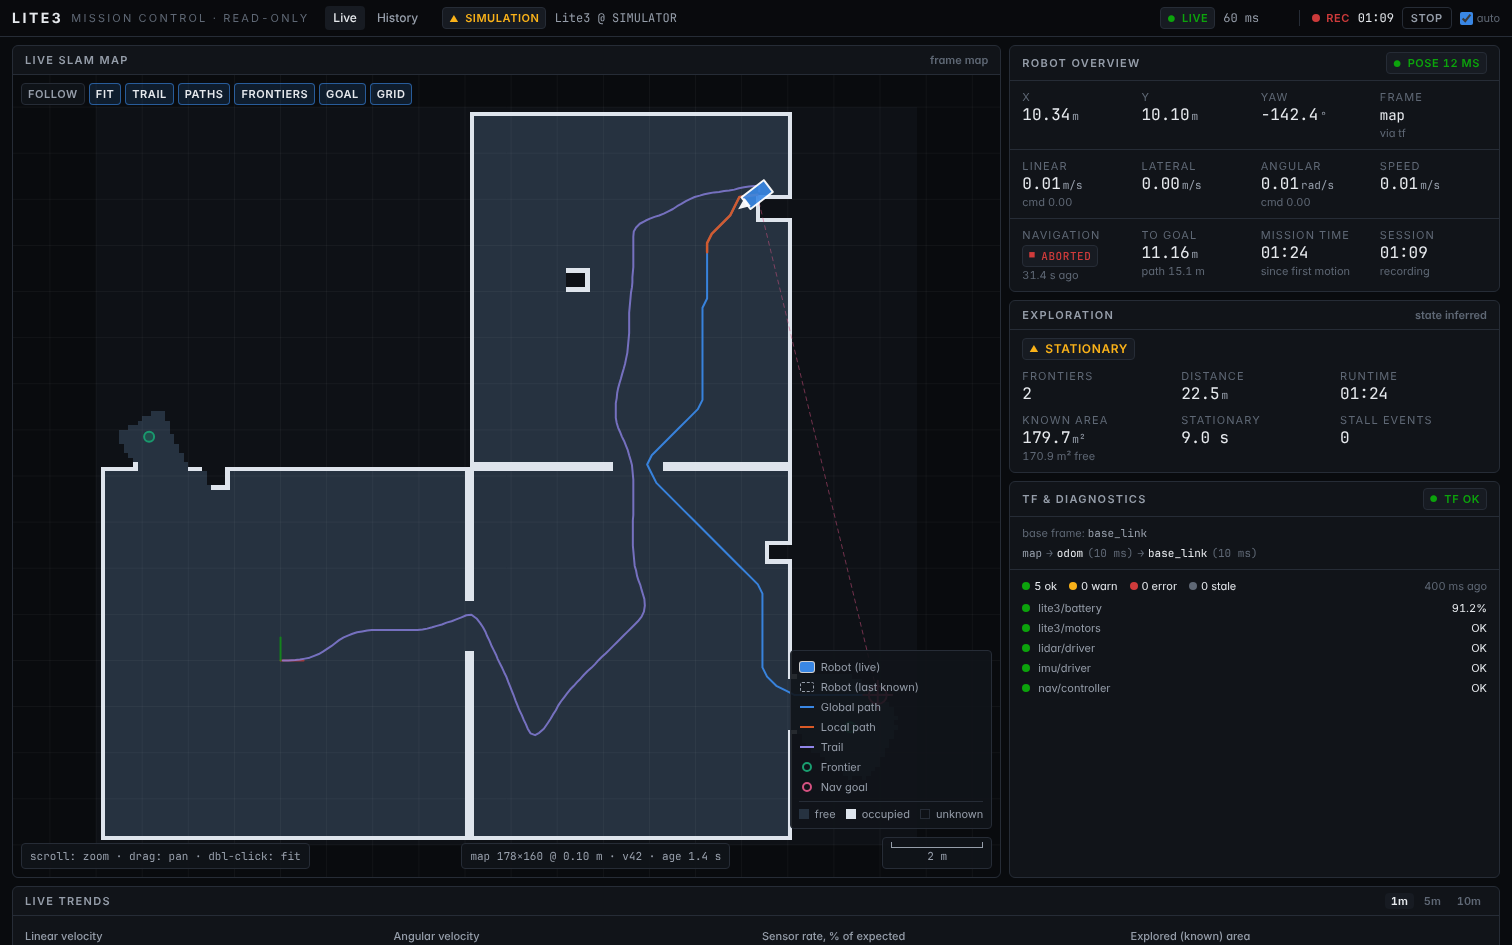
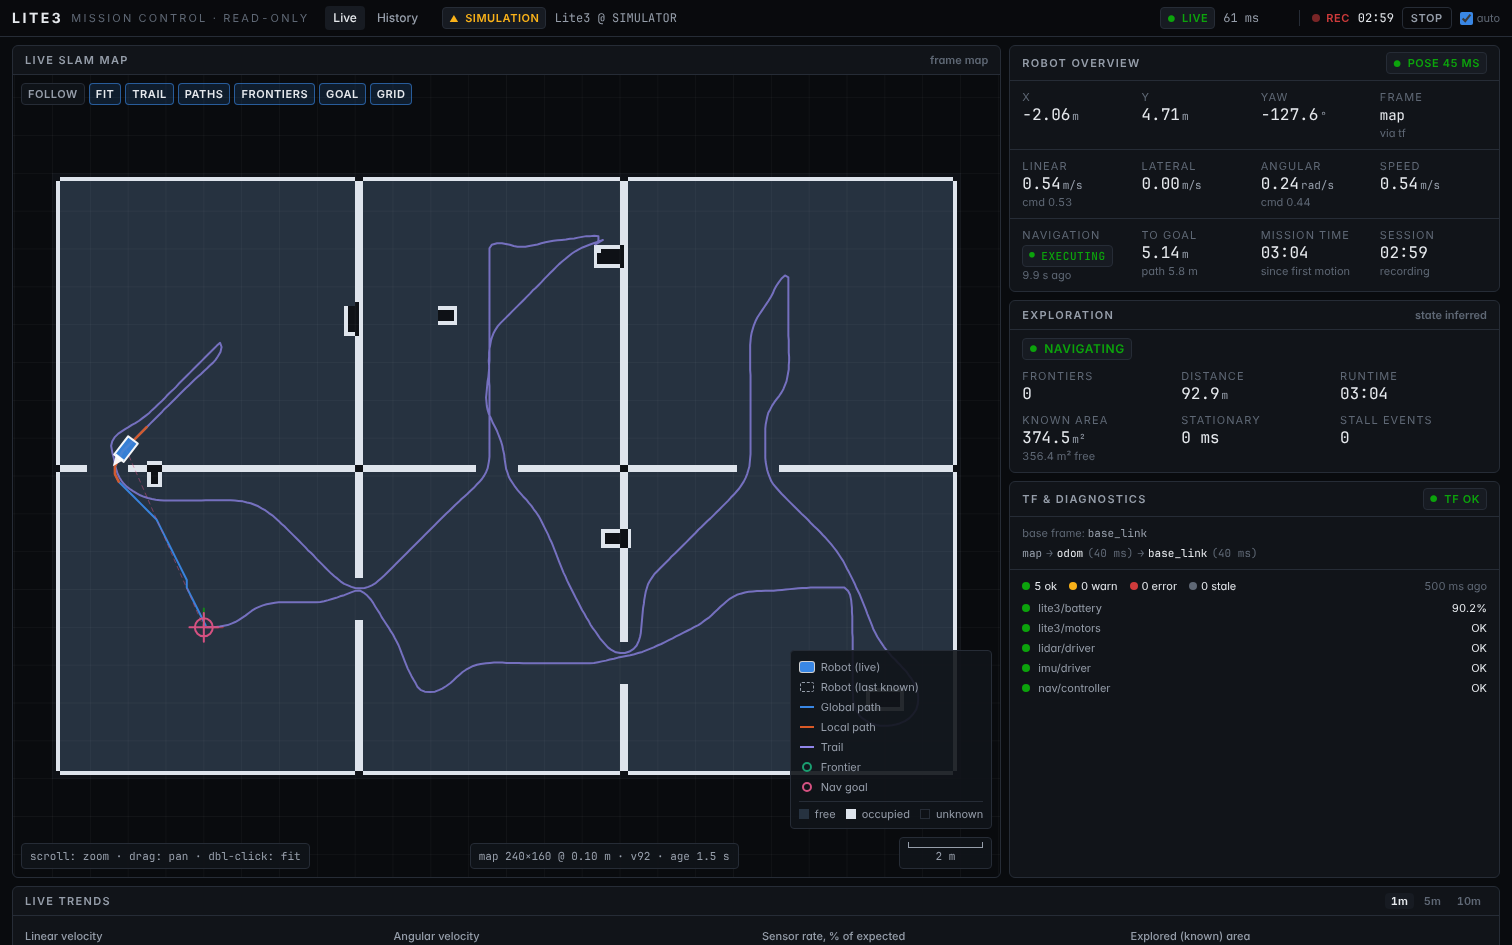
Fix simulator stall and add simulated-clock regression tests
The demo robot pinned itself against obstacle corners and never replanned,
so exploration froze after a few metres. Use exact DDA ray casting, bumper-style
recovery, a no-progress watchdog and no corner cutting. Tests drive the simulator
with a simulated clock so they run in seconds.

Claude-Session: https://claude.ai/code/session_01ULc4aySzyFwzTSRAy1QPNr

diff --git a/lite3-monitor/bridge/lite3_bridge/sim.py b/lite3-monitor/bridge/lite3_bridge/sim.py
@@ -104,18 +104,24 @@ class Explorer:
         self.frontier_centroids: List[Tuple[float, float]] = []
 
     def scan(self, x: float, y: float) -> None:
+        """Ray cast with exact grid traversal (Amanatides-Woo DDA): no ray can slip
+        diagonally between two occupied cells, so walls are always closed."""
         known, truth = self.known, self.world.truth
-        step = RES * 0.5
-        n = int(SCAN_RANGE / step)
+        gx = (x - ORIGIN[0]) / RES
+        gy = (y - ORIGIN[1]) / RES
+        max_cells = SCAN_RANGE / RES
         for i in range(360):
             a = i * (2 * math.pi / 360)
-            dx, dy = math.cos(a) * step, math.sin(a) * step
-            px, py = x, y
-            for _ in range(n):
-                px += dx
-                py += dy
-                cx = int((px - ORIGIN[0]) / RES)
-                cy = int((py - ORIGIN[1]) / RES)
+            dx, dy = math.cos(a), math.sin(a)
+            cx, cy = int(gx), int(gy)
+            step_x = 1 if dx > 0 else -1
+            step_y = 1 if dy > 0 else -1
+            t_dx = abs(1.0 / dx) if dx != 0 else 1e18
+            t_dy = abs(1.0 / dy) if dy != 0 else 1e18
+            t_x = ((cx + 1 - gx) if dx > 0 else (gx - cx)) * t_dx
+            t_y = ((cy + 1 - gy) if dy > 0 else (gy - cy)) * t_dy
+            t = 0.0
+            while t <= max_cells:
                 if not (0 <= cx < W and 0 <= cy < H):
                     break
                 idx = cy * W + cx
@@ -123,6 +129,14 @@ class Explorer:
                     known[idx] = OCC
                     break
                 known[idx] = FREE
+                if t_x < t_y:
+                    t = t_x
+                    t_x += t_dx
+                    cx += step_x
+                else:
+                    t = t_y
+                    t_y += t_dy
+                    cy += step_y
 
     def frontiers(self) -> List[Tuple[float, float, int, Cell]]:
         known = self.known
@@ -185,13 +199,18 @@ class Explorer:
         sx, sy = start
         gx, gy = goal
         blocked = bytearray(blocked)
-        # Let the robot leave an inflated zone it has drifted into (known-free cells only).
+        # Let the robot leave an inflated zone it has drifted into: free known cells near
+        # the start are usable, but never cells touching an obstacle.
+        known = self.known
         r = INFLATE + 1
         for ddy in range(-r, r + 1):
             for ddx in range(-r, r + 1):
                 xx, yy = sx + ddx, sy + ddy
-                if 0 <= xx < W and 0 <= yy < H and self.known[yy * W + xx] == FREE:
-                    blocked[yy * W + xx] = 0
+                if not (1 <= xx < W - 1 and 1 <= yy < H - 1) or known[yy * W + xx] != FREE:
+                    continue
+                if any(known[(yy + j) * W + xx + i] == OCC for i in (-1, 0, 1) for j in (-1, 0, 1)):
+                    continue
+                blocked[yy * W + xx] = 0
         blocked[sy * W + sx] = 0
         blocked[gy * W + gx] = 0
         openh = [(0.0, sx, sy)]
@@ -215,6 +234,8 @@ class Explorer:
                 nx, ny = x + dx, y + dy
                 if not (0 <= nx < W and 0 <= ny < H) or blocked[ny * W + nx]:
                     continue
+                if dx and dy and (blocked[y * W + nx] or blocked[ny * W + x]):
+                    continue  # no diagonal corner cutting
                 ng = gc + cst
                 if ng < g.get((nx, ny), 1e18):
                     g[(nx, ny)] = ng
@@ -255,6 +276,13 @@ class SimSource:
         self.next_fault = time.monotonic() + 40.0
         self.battery = 92.0
         self.map_version_sent = 0
+        # collision / no-progress recovery
+        self.backing_until = 0.0
+        self.force_replan = False
+        self.replan_after_backing = False
+        self.progress_ref: Optional[Tuple[float, float, float]] = None  # (t, x, y)
+        self.collisions = 0
+        self.travelled = 0.0
 
     def _role_name(self, role: str) -> Optional[str]:
         c = self.cfg["topics"][role]["candidates"]
@@ -308,46 +336,53 @@ class SimSource:
         return time.monotonic() < self.link_down_until
 
     # ------------------------------------------------------------------- loop
+    DT = 0.05
+
     def _run(self) -> None:
-        dt = 0.05
-        k = 0
-        last_scan = last_plan = last_map = last_diag = last_frontier = 0.0
-        last_dropout = time.monotonic()
-        replan_needed = True
         while not self._stop.is_set():
             t0 = time.monotonic()
-            now = t0
-            k += 1
             try:
-                self._faults(now)
-                if self.link_dropouts and now - last_dropout > self.dropout_every:
-                    last_dropout = now
-                    self.link_down_until = now + self.dropout_dur
-                    log.info("sim: simulated link dropout for %.0fs", self.dropout_dur)
-
-                if now - last_scan >= 0.5:
-                    last_scan = now
-                    self.explorer.scan(self.x, self.y)
-                due = now - last_plan >= 8.0 or (self.goal and self._dist_to(self.goal) < 0.4)
-                if (replan_needed and now - last_plan >= 1.0) or due:
-                    last_plan = now
-                    replan_needed = not self._replan(now)
-                    last_frontier = now
-                if now - last_map >= 2.0:
-                    last_map = now
-                    self._publish_map()
-                if now - last_diag >= 1.0:
-                    last_diag = now
-                    self._publish_diag()
-                    self._publish_paths()
-                if now - last_frontier >= 3.0:
-                    last_frontier = now
-                    self._publish_frontiers(self.explorer.frontier_centroids)
-                self._step(dt, now)
-                self._publish_fast(dt, k)
+                self.tick(t0)
             except Exception:  # keep the simulator alive no matter what
                 log.exception("sim step failed")
-            self._stop.wait(max(0.0, dt - (time.monotonic() - t0)))
+            self._stop.wait(max(0.0, self.DT - (time.monotonic() - t0)))
+
+    def tick(self, now: float) -> None:
+        """Advance the simulation by one DT step. `now` may be a simulated clock (tests)."""
+        if not hasattr(self, "_t"):
+            self._t = {"scan": -1e9, "plan": -1e9, "map": -1e9, "diag": -1e9, "frontier": -1e9,
+                       "dropout": now}
+            self._k = 0
+            self._replan_needed = True
+        t = self._t
+        self._k += 1
+        self._faults(now)
+        if self.link_dropouts and now - t["dropout"] > self.dropout_every:
+            t["dropout"] = now
+            self.link_down_until = now + self.dropout_dur
+            log.info("sim: simulated link dropout for %.0fs", self.dropout_dur)
+
+        if now - t["scan"] >= 0.5:
+            t["scan"] = now
+            self.explorer.scan(self.x, self.y)
+        due = now - t["plan"] >= 8.0 or (self.goal and self._dist_to(self.goal) < 0.4)
+        if self.force_replan or (self._replan_needed and now - t["plan"] >= 1.0) or due:
+            self.force_replan = False
+            t["plan"] = now
+            self._replan_needed = not self._replan(now)
+            t["frontier"] = now
+        if now - t["map"] >= 2.0:
+            t["map"] = now
+            self._publish_map()
+        if now - t["diag"] >= 1.0:
+            t["diag"] = now
+            self._publish_diag()
+            self._publish_paths()
+        if now - t["frontier"] >= 3.0:
+            t["frontier"] = now
+            self._publish_frontiers(self.explorer.frontier_centroids)
+        self._step(self.DT, now)
+        self._publish_fast(self.DT, self._k)
 
     def _dist_to(self, p: Tuple[float, float]) -> float:
         return math.hypot(p[0] - self.x, p[1] - self.y)
@@ -444,6 +479,11 @@ class SimSource:
             tv = 0.0 if abs(err) > 0.9 else 0.55 * math.cos(err)
             if len(self.path) == 1 and self._dist_to(self.path[0]) < 0.25:
                 tv = tw = 0.0
+        if now < self.backing_until:
+            tv, tw = -0.25, 0.0  # bumper recovery: reverse away from the obstacle
+        elif self.replan_after_backing:
+            self.replan_after_backing = False
+            self.force_replan = True
         self.cmd = (tv, tw)
         # first-order dynamics
         self.v += (tv - self.v) * min(1.0, dt * 3.0)
@@ -453,14 +493,50 @@ class SimSource:
         nx = self.x + self.v * math.cos(self.yaw) * dt
         ny = self.y + self.v * math.sin(self.yaw) * dt
         if not self.world.occupied(nx, ny):
+            self.travelled += math.hypot(nx - self.x, ny - self.y)
             self.x, self.y = nx, ny
         else:
             self.v = 0.0
+            if not self._has_fault("stuck"):
+                self._on_collision(nx, ny, now)
         self.yaw = wrap_angle(self.yaw + self.w * dt)
+        self._check_progress(now)
         # slow SLAM correction drift of map->odom
         self.drift[0] += self.rng.gauss(0, 0.0004)
         self.drift[1] += self.rng.gauss(0, 0.0004)
         self.drift[2] += self.rng.gauss(0, 0.0002)
+
+    def _on_collision(self, x: float, y: float, now: float) -> None:
+        """Like a bumper/costmap: record the obstacle that the scan missed, back off, replan."""
+        cx, cy = w2c(x, y)
+        known, truth = self.explorer.known, self.world.truth
+        for ddy in (-1, 0, 1):
+            for ddx in (-1, 0, 1):
+                xx, yy = cx + ddx, cy + ddy
+                if 0 <= xx < W and 0 <= yy < H and truth[yy * W + xx] == OCC:
+                    known[yy * W + xx] = OCC
+        if now >= self.backing_until:
+            self.collisions += 1
+            self.backing_until = now + 1.5
+            self.replan_after_backing = True
+
+    def _check_progress(self, now: float) -> None:
+        """Give up on a goal if the robot has not moved 0.15 m in 6 s (not during injected stalls)."""
+        if not self.goal or self._has_fault("stuck"):
+            self.progress_ref = (now, self.x, self.y)
+            return
+        if self.progress_ref is None:
+            self.progress_ref = (now, self.x, self.y)
+            return
+        t0, x0, y0 = self.progress_ref
+        if math.hypot(self.x - x0, self.y - y0) >= 0.15:
+            self.progress_ref = (now, self.x, self.y)
+        elif now - t0 > 6.0:
+            log.info("sim: no progress towards goal, blacklisting it and replanning")
+            self.explorer.blacklist.append(self.goal)
+            self._finish_goal("ABORTED")
+            self.progress_ref = (now, self.x, self.y)
+            self.force_replan = True
 
     # ------------------------------------------------------------- publishing
     def _publish_fast(self, dt: float, k: int) -> None:

diff --git a/lite3-monitor/bridge/tests/test_sim.py b/lite3-monitor/bridge/tests/test_sim.py
@@ -1,0 +1,84 @@
+"""Simulator regression tests, driven by a simulated clock (fast, deterministic per seed).
+
+Regression for the stall found in the first handover: the robot pinned itself
+against an obstacle corner, nav stayed EXECUTING forever and distance froze.
+"""
+import pytest
+
+from lite3_bridge.config import load_config
+from lite3_bridge.sim import INFLATE, OCC, FREE, H, W, SimSource, w2c
+from lite3_bridge.state import TelemetryStore
+
+
+def make_sim(seed, faults=False):
+    cfg = load_config()
+    cfg["sim"]["seed"] = seed
+    cfg["sim"]["topic_faults"] = faults
+    src = SimSource(TelemetryStore(cfg, "sim"), cfg)
+    src._register()  # no background thread; the test drives tick()
+    return src
+
+
+def run(src, seconds, now=1000.0, stop_when_complete=False):
+    for _ in range(int(seconds / src.DT)):
+        now += src.DT
+        src.tick(now)
+        if stop_when_complete and src.complete_at is not None:
+            break
+    return now
+
+
+def body_reachable_coverage(src):
+    """Fraction of cells the robot body can reach (outside the wall margin) that are explored."""
+    truth, known = src.world.truth, src.explorer.known
+
+    def near_wall(x, y):
+        for j in range(-INFLATE, INFLATE + 1):
+            for i in range(-INFLATE, INFLATE + 1):
+                if i * i + j * j <= INFLATE * INFLATE and 0 <= x + i < W and 0 <= y + j < H \
+                        and truth[(y + j) * W + x + i] == OCC:
+                    return True
+        return False
+
+    start = w2c(0.0, 0.0)
+    seen, stack = {start}, [start]
+    while stack:
+        x, y = stack.pop()
+        for n in ((x + 1, y), (x - 1, y), (x, y + 1), (x, y - 1)):
+            if 0 <= n[0] < W and 0 <= n[1] < H and n not in seen and not near_wall(*n):
+                seen.add(n)
+                stack.append(n)
+    return sum(1 for x, y in seen if known[y * W + x] == FREE) / len(seen)
+
+
+@pytest.mark.parametrize("seed", [7, 9, 10])
+def test_sim_keeps_moving(seed):
+    src = make_sim(seed)
+    run(src, 120)
+    assert src.travelled > 15.0, f"seed {seed}: robot stalled after {src.travelled:.1f} m"
+
+
+@pytest.mark.parametrize("seed", [7, 8, 9, 11])
+def test_sim_explores_everything_reachable(seed):
+    src = make_sim(seed)
+    run(src, 400, stop_when_complete=True)
+    assert src.complete_at is not None, f"seed {seed}: exploration never completed"
+    assert body_reachable_coverage(src) > 0.95
+
+
+def test_injected_stall_is_not_hidden_by_recovery():
+    """The 'stuck' fault must stay visible as a stall: the progress watchdog must not abort it."""
+    src = make_sim(7)
+    now = run(src, 15)
+    assert src.goal is not None
+    src.fault = ("stuck", now + 12.0)
+    x0, y0 = src.x, src.y
+    statuses = set()
+    for _ in range(int(10 / src.DT)):
+        now += src.DT
+        src.tick(now)
+        statuses.add(src.store.nav_status["status"])
+    # goal stays active (never aborted by the watchdog) and the robot does not move,
+    # so the dashboard's STALLED detection sees exactly what a real stall looks like
+    assert statuses == {"EXECUTING"}
+    assert abs(src.x - x0) + abs(src.y - y0) < 0.1

diff --git a/HANDOVER.md b/HANDOVER.md
@@ -42,18 +42,10 @@ Agents: do not perform an action until its row says YES.
 
 ## Next tasks (in order)
 
-- [ ] **BUG (simulator only, fix first):** in a headless run the simulated robot gets
-      stuck: state STALLED from ~60 s on, nav stays EXECUTING, distance frozen at 3.5 m.
-      Reproduce with a short script that builds `TelemetryStore` + `SimSource` with
-      `topic_faults=False` and prints `store.telemetry_message()["exploration"]` every 10 s.
-      Likely causes in `bridge/lite3_bridge/sim.py`: `_step` collision check stops the
-      robot against a wall/corner while the path still points through it (path cuts
-      corners; `INFLATE` vs body size), and `_replan` only re-plans every 8 s / on goal
-      reach, never on "no progress". Suggested fix: detect no progress for ~5 s → blacklist
-      current frontier and replan; follow the path cell-by-cell near obstacles. The last
-      uncommitted-then-committed change already (a) unblocks inflated cells around the
-      start for A*, (b) excludes blacklisted frontiers from the count, (c) rate-limits
-      failed replans to 1 Hz. Add a regression test: sim must reach > 15 m in 120 s.
+- [x] ~~BUG: simulator robot stalls~~ — fixed 2026-11-21 (see Agent log).
+- [ ] **Codex: independent safety review** of the bridge (read-only guarantees, load on
+      the NUC, stale-data handling, bypasses of `tools/check_readonly.py`). Write findings
+      under "Review findings" below; do not change code in the review pass.
 - [ ] (Human) Answer the questions above and grant discovery approval.
 - [ ] Run `scripts/mac/discover-remote.sh`, commit report to `lite3-monitor/docs/discovery/`.
 - [ ] Tune `bridge/config/default.yaml` candidates/rates/frames to the discovered graph; add `expected_nodes`.
@@ -63,6 +55,10 @@ Agents: do not perform an action until its row says YES.
 - [ ] If custom Lite3 state messages exist (battery, motor temps, gait), add a read-only role + card.
 - [ ] Optional: store a final map snapshot (PNG) with each history session.
 - [ ] Optional: Playwright smoke test in CI against the simulator.
+
+## Review findings
+
+_(empty — to be filled by the reviewer)_
 
 ## Decisions log
 
@@ -86,3 +82,16 @@ Agents: do not perform an action until its row says YES.
   by design), Safari rendering.
   Known open bug: simulator robot stalls (see Next tasks). Dashboard/bridge correctly
   report it as STALLED, so this only affects the demo, not monitoring logic.
+- 2026-11-21 · Claude Code · Fixed the simulator stall. Root causes: (1) the scan
+  ray-cast stepped in half-cells and could slip past obstacle corners, so the map
+  missed obstacles; (2) when the robot drifted into the inflation margin, A* freed
+  cells touching walls and allowed diagonal corner cutting, so paths ran into corners;
+  (3) a collision just zeroed speed forever and nothing replanned. Fixes in `sim.py`:
+  exact DDA ray traversal, bumper-style recovery (mark obstacle, reverse 1.5 s, replan),
+  no-progress watchdog (6 s → blacklist goal, replan; disabled during the injected
+  "stuck" fault so that stall stays visible), no corner cutting, frontier count excludes
+  blacklisted frontiers. Loop body moved to `SimSource.tick(now)` so tests use a
+  simulated clock. New `tests/test_sim.py` (seeds 7–11): > 15 m in 120 s; exploration
+  completes with > 95 % of body-reachable floor explored; injected stall never aborted.
+  Verified: 23 bridge tests, read-only audit, real-time run with dashboard (93 m in
+  3 min, exploration complete, bridge ~2 % CPU). Simulator only; no protocol change.
